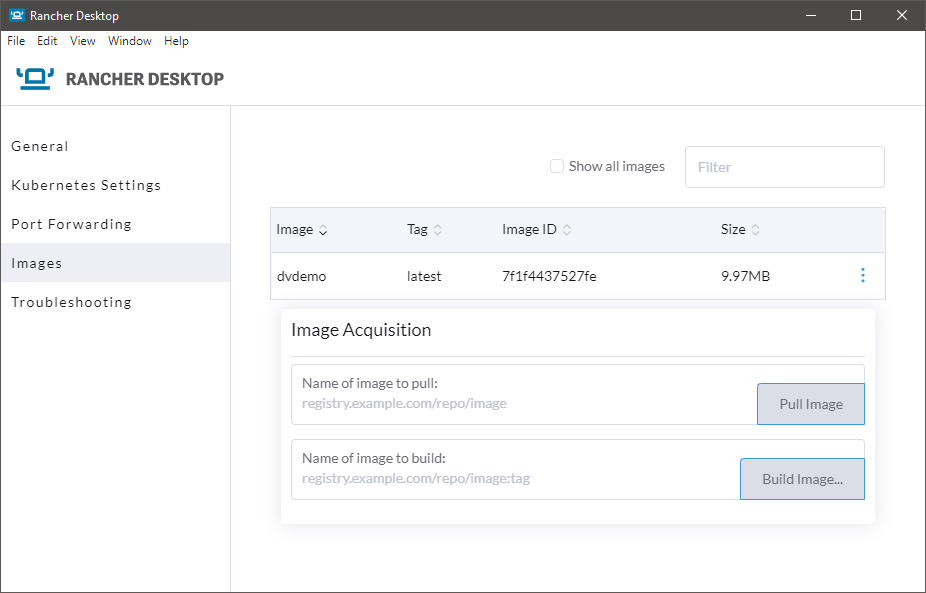
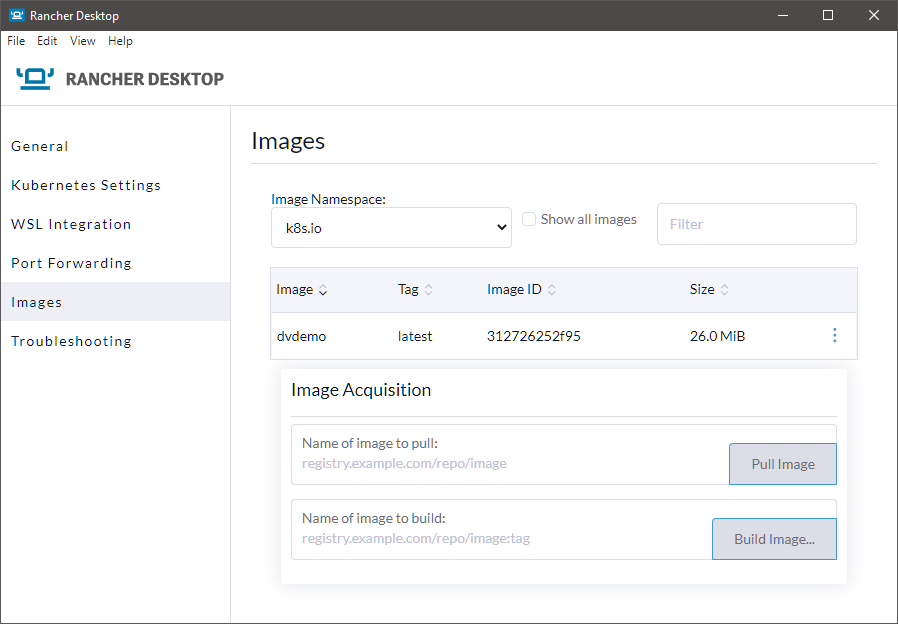
Update to v0.6.0
switched from Kim build to nerdctl and added namespaces

diff --git a/sample/container/index.html b/sample/container/index.html
@@ -103,19 +103,6 @@
                 </p>
             </div>
         </div>
-        <div class="card">
-            <span> Kim</span>
-            <div>
-                <p>
-                    Thanks to the Kim Team
-                </p>
-                <p class="minor-text">You can learn more about Kim at
-                    <a href="https://github.com/rancher/kim">
-                        Kim Github Repository
-                    </a>
-                </p>
-            </div>
-        </div>
     </div>
     <div class="container thanks">
         <p>

diff --git a/README.md b/README.md
@@ -42,12 +42,14 @@ To get a list of your current wsl machines, type:
 wsl -l
 ```
 
-In the following screenshot I have Ubuntu and rancher-desktop running.
+In the following screenshot I have Ubuntu and rancher-desktop running.  
 ![wsl list](images/TerminalWSLList.png)
 
-the rancher-desktop wsl machine uses [K3s](https://k3s.io/) and [kim](https://github.com/rancher/kim) to enable running and building of containers, you don't have to worry about the details since everything is setup for you by Rancher Desktop.
+> Note: Version 0.6.0 has `rancher-desktop-data` to enable auto updates, it has also moved away from using KIM to do the builds and now uses `nerdctl`
 
-### Seeing what is running
+the rancher-desktop wsl machine uses [K3s](https://k3s.io/) to enable running and building of containers. You don't have to worry about the details since everything is setup for you by Rancher Desktop.
+
+## Seeing what is running
 
 Rancher Desktop installs and configures kubectl for you, which allows you to interact with the cluster.  
 
@@ -62,70 +64,93 @@ You will get a list of currently running pods, services and deployments similar 
 ```bash
 PS C:\> kubectl get all -A
 NAMESPACE     NAME                                          READY   STATUS      RESTARTS   AGE
-kube-system   pod/helm-install-traefik-crd-5fgxp            0/1     Completed   0          29h
-kube-system   pod/helm-install-traefik-zc9tx                0/1     Completed   1          29h
-kube-image    pod/builder-jnrbz                             2/2     Running     0          20m
-kube-system   pod/svclb-traefik-4bxpg                       2/2     Running     4          29h
-kube-system   pod/coredns-7448499f4d-f892h                  1/1     Running     2          29h
-kube-system   pod/metrics-server-86cbb8457f-jxxq7           1/1     Running     2          29h
-kube-system   pod/local-path-provisioner-5ff76fc89d-fdqhz   1/1     Running     2          29h
-kube-system   pod/traefik-97b44b794-tn9pt                   1/1     Running     2          29h
+kube-system   pod/metrics-server-86cbb8457f-cj9zz           1/1     Running     0          5m18s
+kube-system   pod/local-path-provisioner-5ff76fc89d-hxzt7   1/1     Running     0          5m18s
+kube-system   pod/coredns-7448499f4d-dp5qw                  1/1     Running     0          5m18s
+kube-system   pod/helm-install-traefik-crd-dfxfr            0/1     Completed   0          5m18s
+kube-system   pod/helm-install-traefik-98rhr                0/1     Completed   1          5m18s
+kube-system   pod/svclb-traefik-4hwwk                       2/2     Running     0          4m53s
+kube-system   pod/traefik-97b44b794-xlxn5                   1/1     Running     0          4m53s
+kube-image    pod/builder-7hbrt                             2/2     Running     0          4m3s
 
-NAMESPACE     NAME                     TYPE           CLUSTER-IP     EXTERNAL-IP    PORT(S)                         AGE
-default       service/kubernetes       ClusterIP      10.43.0.1      <none>         443/TCP                         29h
-kube-system   service/kube-dns         ClusterIP      10.43.0.10     <none>         53/UDP,53/TCP,9153/TCP          29h
-kube-system   service/metrics-server   ClusterIP      10.43.48.43    <none>         443/TCP                         29h
-kube-image    service/builder          NodePort       10.43.173.98   <none>         1234:31928/TCP,1233:30050/TCP   20m
-kube-system   service/traefik          LoadBalancer   10.43.17.127   172.30.30.65   80:32100/TCP,443:32296/TCP      29h
+NAMESPACE     NAME                     TYPE           CLUSTER-IP     EXTERNAL-IP     PORT(S)                         AGEdefault       service/kubernetes       ClusterIP      10.43.0.1      <none>          443/TCP                         5m33s
+kube-system   service/kube-dns         ClusterIP      10.43.0.10     <none>          53/UDP,53/TCP,9153/TCP          5m28s
+kube-system   service/metrics-server   ClusterIP      10.43.242.5    <none>          443/TCP                         5m27s
+kube-system   service/traefik          LoadBalancer   10.43.89.63    172.29.237.52   80:31027/TCP,443:31005/TCP      4m53s
+kube-image    service/builder          NodePort       10.43.50.172   <none>          1234:30696/TCP,1233:30536/TCP   4m3s
 
 NAMESPACE     NAME                           DESIRED   CURRENT   READY   UP-TO-DATE   AVAILABLE   NODE SELECTOR                          AGE
-kube-system   daemonset.apps/svclb-traefik   1         1         1       1            1           <none>
-                    29h
-kube-image    daemonset.apps/builder         1         1         1       1            1           node-role.kubernetes.io/builder=true   29h
+kube-system   daemonset.apps/svclb-traefik   1         1         1       1            1           <none>                                 4m53s
+kube-image    daemonset.apps/builder         1         1         1       1            1           node-role.kubernetes.io/builder=true   4m3s
 
 NAMESPACE     NAME                                     READY   UP-TO-DATE   AVAILABLE   AGE
-kube-system   deployment.apps/coredns                  1/1     1            1           29h
-kube-system   deployment.apps/metrics-server           1/1     1            1           29h
-kube-system   deployment.apps/local-path-provisioner   1/1     1            1           29h
-kube-system   deployment.apps/traefik                  1/1     1            1           29h
+kube-system   deployment.apps/metrics-server           1/1     1            1           5m28s
+kube-system   deployment.apps/local-path-provisioner   1/1     1            1           5m28s
+kube-system   deployment.apps/coredns                  1/1     1            1           5m28s
+kube-system   deployment.apps/traefik                  1/1     1            1           4m53s
 
 NAMESPACE     NAME                                                DESIRED   CURRENT   READY   AGE
-kube-system   replicaset.apps/coredns-7448499f4d                  1         1         1       29h
-kube-system   replicaset.apps/metrics-server-86cbb8457f           1         1         1       29h
-kube-system   replicaset.apps/local-path-provisioner-5ff76fc89d   1         1         1       29h
-kube-system   replicaset.apps/traefik-97b44b794                   1         1         1       29h
+kube-system   replicaset.apps/metrics-server-86cbb8457f           1         1         1       5m18s
+kube-system   replicaset.apps/local-path-provisioner-5ff76fc89d   1         1         1       5m18s
+kube-system   replicaset.apps/coredns-7448499f4d                  1         1         1       5m18s
+kube-system   replicaset.apps/traefik-97b44b794                   1         1         1       4m53s
 
 NAMESPACE     NAME                                 COMPLETIONS   DURATION   AGE
-kube-system   job.batch/helm-install-traefik-crd   1/1           22s        29h
-kube-system   job.batch/helm-install-traefik       1/1           25s        29h
-PS C:\>
+kube-system   job.batch/helm-install-traefik-crd   1/1           23s        5m26s
+kube-system   job.batch/helm-install-traefik       1/1           25s        5m26s
 ```
 
 The interesting things to note here are the builder and traefik services.
-We can use [traefik](https://traefik.io/) to get into the cluster and [kim](https://github.com/rancher/kim) leverages the builder service to build containers using [buildkit](https://github.com/moby/buildkit). Don't worry too much about the details of traefik, kim and buildkit; it's just nice to know that they are doing their **magic** behind the scenes.  
+We can use [traefik](https://traefik.io/) to get into the cluster and nerdctl leverages the builder service to build containers using [buildkit](https://github.com/moby/buildkit). Don't worry too much about the details of traefik, nerdctl and buildkit; it's just nice to know that they are doing their **magic** behind the scenes.  
 
-### Building a container with Kim
+## Building a container with nerdctl
 
-Rancher Desktop uses Kim to build containers, it is automatically configured for you when you install Rancher Desktop.  
-I provided a sample Dockerfile in the "sample" folder that you can use.
+Rancher Desktop now uses nerdctl to build containers, it is automatically configured for you when you install Rancher Desktop.  
+I provided a sample Dockerfile in the `sample\container` folder that you can use.
 
-cd to the sample folder and type:
+cd to the `sample\container` folder and type:
 
 ```bash
-kim build -t dvdemo:latest .
+nerdctl -n k8s.io build -t dvdemo:latest .
 ```
 
+> Note: We add the `-n k8s.io` flag to get our image into the right namespace and make it available to the K8s cluster
+
 you should get some output similar to:
-![Kim build](images/KimBuild.png)
+
+```bash
+ nerdctl -n k8s.io build -t dvdemo:latest .
+[+] Building 4.1s (7/7) FINISHED
+ => [internal] load build definition from Dockerfile                                                               0.0s
+ => => transferring dockerfile: 98B                                                                                0.0s
+ => [internal] load .dockerignore                                                                                  0.0s
+ => => transferring context: 2B                                                                                    0.0s
+ => [internal] load metadata for docker.io/library/nginx:alpine                                                    1.9s
+ => [internal] load build context                                                                                  0.1s
+ => => transferring context: 3.45kB                                                                                0.0s
+ => [1/2] FROM docker.io/library/nginx:alpine@sha256:686aac2769fd6e7bab67663fd38750c135b72d993d0bb0a942ab02ef647f  1.1s
+ => => resolve docker.io/library/nginx:alpine@sha256:686aac2769fd6e7bab67663fd38750c135b72d993d0bb0a942ab02ef647f  0.1s
+ --- REMOVED TO REDUCE TEXT ---
+ => [2/2] COPY index.html /usr/share/nginx/html/                                                                   0.1s
+ => exporting to oci image format                                                                                  0.6s
+ => => exporting layers                                                                                            0.2s
+ => => exporting manifest sha256:dcb5094f802838df8652b635a5d8b6075058d21ce0f145aa341e18a6cdd9ada0                  0.0s
+ => => exporting config sha256:6077cfd0223249cbc205dcbe44eb691942890240e41d397976e4fb8f3812680d                    0.0s
+ => => sending tarball                                                                                             0.3s
+unpacking docker.io/library/dvdemo:latest (sha256:dcb5094f802838df8652b635a5d8b6075058d21ce0f145aa341e18a6cdd9ada0)...done
+unpacking overlayfs@sha256:dcb5094f802838df8652b635a5d8b6075058d21ce0f145aa341e18a6cdd9ada0 (sha256:dcb5094f802838df8652b635a5d8b6075058d21ce0f145aa341e18a6cdd9ada0)...done
+```
 
 You should now be able to see the newly created image in the cluster.  
 
 Go to the Rancher Desktop UI and click on "Images" on the left side.  
 
-It should look something similar to this:
+It should look something similar to this:  
 ![Rancher Desktop Images](images/RancherDesktopImages.png)
 
-### Creating a deployment, services and ingress
+> Note: I had to use the drop down to switch to the `k8s.io` Image Namespace
+
+## Creating a deployment, services and ingress
 
 Creating a deployment, service and ingress is beyond the scope of this demo. I followed the article ["Replacing Docker Desktop with WSL2 and/or Rancher Desktop on Windows"](https://jason-umiker.medium.com/replacing-docker-desktop-with-wsl2-and-or-rancher-desktop-on-windows-5e036f9dc3a4) by Jason Umiker.
 
@@ -152,7 +177,7 @@ service/rancher-desktop-demo created
 ingress.networking.k8s.io/rancher-desktop-demo created
 ```
 
-### Accessing your newly created container
+## Accessing your newly created container
 
 Part of the previous command creates an ingress into your cluster, to see it type:
 
@@ -172,18 +197,19 @@ Note the IP address, in this case `172.30.30.65`
 Open a web browser and navigate to `http://172.30.30.65`, it should respond with something similar to:
 ![Rancher Desktop Demo Page](images/DemoPage.png)
 
-### Creating a local port forward
+## Creating a local port forward
 
-If you want to be able to access the cluster locally, Rancher Desktop also enables port forwarding. Click on "Port Forwarding", then "Forward" under your chosen Name (in this case rancher-desktop-demo"). In the screenshot it is forwarding to local port `58320`
+If you want to be able to access the cluster locally, Rancher Desktop also enables port forwarding. Click on "Port Forwarding", then "Forward" under your chosen Name (in this case rancher-desktop-demo"). In the screenshot it is forwarding to local port `61842`
 ![Port Forward](images/RancherDesktopPortForward.png)
 
-After enabling the port forward you should be able to navigate to `http://localhost:58320/` and see the same page that loaded for `http://172.30.30.65`.
+After enabling the port forward you should be able to navigate to `http://localhost:61842/` and see the same page that loaded for `http://172.30.30.65`.
 
-### Conclusion and Next Steps
+## Conclusion and Next Steps
 
 **That's it!** You now have a container running in your kubernetes cluster that is accessible on the cluster IP and on a local port forward.  Let me know if you have any questions. I can be reached at [@IAmDanielV](https://twitter.com/IAmDanielV).
 
-### Adding Portainer
+## Adding Portainer
+
 If you want a web based view of your Kubernetes cluster, you can install Portainer. It's a very powerful UI that gives you a lot of control over the cluster and lets you deploy things without having to mess around with command lines.
 
 To learn more about Portainer go to [Portainer.io](https://www.portainer.io/)
@@ -237,8 +263,7 @@ in my case it returned 30779 for port and an IP.
 
 Portainer has a lot of features and is beyond the scope of this demo, but you can learn more at [Portainer.io](https://www.portainer.io/)
 
-
-### Cleaning up
+## Cleaning up
 
 The kubernetes engine will keep the specified containers running. If you want to stop and free up some memory once you are done you can change to the `sample/deployment` folder and run:
 
